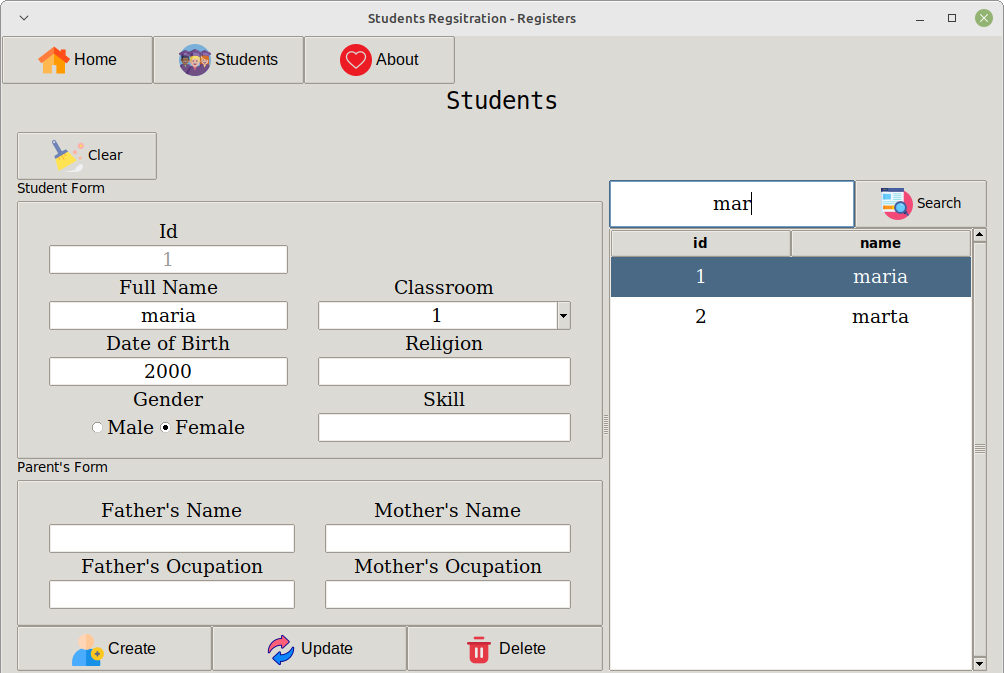
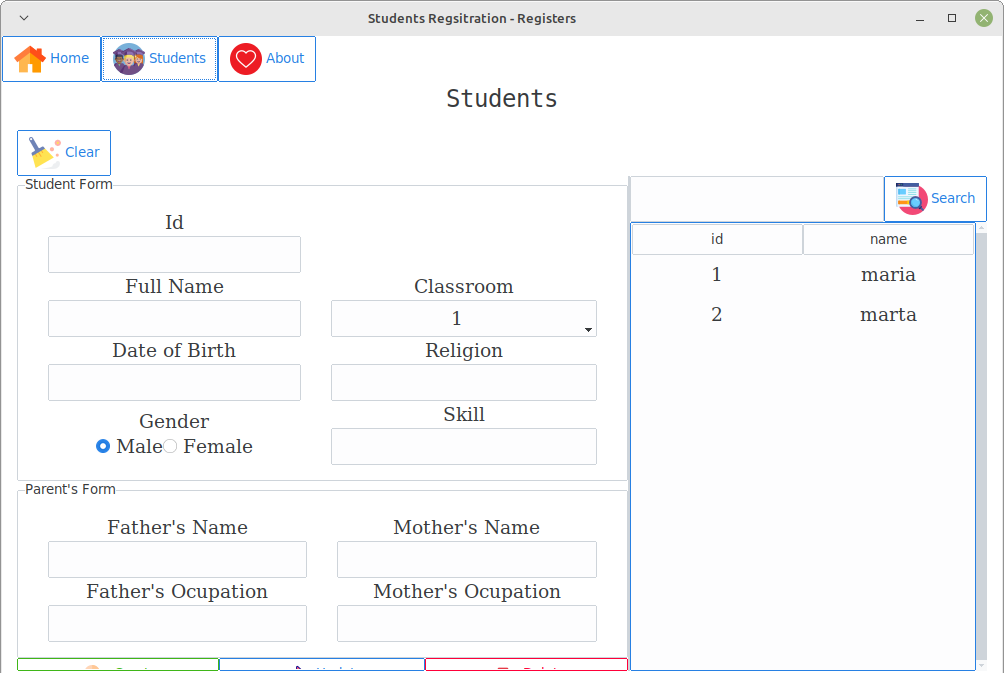
ttkbootstrap

diff --git a/app/view/components/crud_buttons.py b/app/view/components/crud_buttons.py
@@ -1,10 +1,8 @@
 import os
 import tkinter as tk
-import tkinter.ttk as ttk
+# import tkinter.ttk as ttk
+import ttkbootstrap as ttk
 from app.constants import ICONS_DIR
-
-
-CRUD_BUTTONS_FONT = ('Arial', 12, 'normal')
 
 
 class CrudButtons(ttk.Frame):
@@ -16,8 +14,8 @@ class CrudButtons(ttk.Frame):
         )
         self.create_button = ttk.Button(self)
         self.create_button.configure(text='Create')
-        self.create_button.configure(style='CrudButtons.TButton')
         self.create_button.configure(image=self.create_icon, compound=tk.LEFT)
+        self.create_button['bootstyle'] = 'outline-success'
         self.create_button.pack(side=tk.LEFT, fill=tk.X, expand=tk.YES)
 
         self.update_icon = tk.PhotoImage(
@@ -25,8 +23,8 @@ class CrudButtons(ttk.Frame):
         )
         self.update_button = ttk.Button(self)
         self.update_button.configure(text='Update')
-        self.update_button.configure(style='CrudButtons.TButton')
         self.update_button.configure(image=self.update_icon, compound=tk.LEFT)
+        self.update_button['bootstyle'] = 'outline-primary'
         self.update_button.pack(side=tk.LEFT, fill=tk.X, expand=tk.YES)
 
         self.delete_icon = tk.PhotoImage(
@@ -34,9 +32,6 @@ class CrudButtons(ttk.Frame):
         )
         self.delete_button = ttk.Button(self)
         self.delete_button.configure(text='Delete')
-        self.delete_button.configure(style='CrudButtons.TButton')
         self.delete_button.configure(image=self.delete_icon, compound=tk.LEFT)
+        self.delete_button['bootstyle'] = 'outline-danger'
         self.delete_button.pack(side=tk.LEFT, fill=tk.X, expand=tk.YES)
-
-        style = ttk.Style()
-        style.configure('CrudButtons.TButton', font=CRUD_BUTTONS_FONT)

diff --git a/app/view/components/nav.py b/app/view/components/nav.py
@@ -1,10 +1,8 @@
 import os
 import tkinter as tk
-import tkinter.ttk as ttk
+# import tkinter.ttk as ttk
+import ttkbootstrap as ttk
 from app.constants import ICONS_DIR
-
-
-NAV_BUTTON_FONT = ('Arial', 12, 'normal')
 
 
 class Nav(ttk.Frame):
@@ -16,8 +14,8 @@ class Nav(ttk.Frame):
         )
         self.home_button = ttk.Button(self)
         self.home_button.configure(text='Home')
-        self.home_button.configure(style='NavButton.TButton')
         self.home_button.configure(image=self.home_icon, compound=tk.LEFT)
+        self.home_button['bootstyle'] = 'outline-default'
         self.home_button.pack(side=tk.LEFT)
 
         self.students_icon = tk.PhotoImage(
@@ -25,10 +23,10 @@ class Nav(ttk.Frame):
         )
         self.students_button = ttk.Button(self)
         self.students_button.configure(text='Students')
-        self.students_button.configure(style='NavButton.TButton')
         self.students_button.configure(
             image=self.students_icon, compound=tk.LEFT
         )
+        self.students_button['bootstyle'] = 'outline-default'
         self.students_button.pack(side=tk.LEFT)
 
         self.about_icon = tk.PhotoImage(
@@ -36,9 +34,6 @@ class Nav(ttk.Frame):
         )
         self.about_button = ttk.Button(self)
         self.about_button.configure(text='About')
-        self.about_button.configure(style='NavButton.TButton')
         self.about_button.configure(image=self.about_icon, compound=tk.LEFT)
+        self.about_button['bootstyle'] = 'outline-default'
         self.about_button.pack(side=tk.LEFT)
-
-        style = ttk.Style()
-        style.configure('NavButton.TButton', font=NAV_BUTTON_FONT)

diff --git a/app/view/application.py b/app/view/application.py
@@ -1,9 +1,9 @@
 import tkinter as tk
 from tkinter import messagebox
-import tkinter.ttk as ttk
+# import tkinter.ttk as ttk
+import ttkbootstrap as ttk
 import typing
 from app.view.components.nav import Nav
-from app.controller.application_controller import ApplicationController
 from app.view.pages.about import About
 from app.view.pages.home import Home
 from app.view.pages.students import Students
@@ -18,10 +18,8 @@ class Application(tk.Tk):
 
         # style
         style = ttk.Style()
-        style.theme_use('clam')
+        style.theme_use('cosmo')
 
-        style = ttk.Style()
-        style.theme_use('clam')
         # widgets.
         self.nav = Nav(self)
         self.nav.pack(side=tk.TOP, fill=tk.X)

diff --git a/app/view/pages/students.py b/app/view/pages/students.py
@@ -1,6 +1,7 @@
 import os
 import tkinter as tk
-import tkinter.ttk as ttk
+# import tkinter.ttk as ttk
+import ttkbootstrap as ttk
 import typing
 from app.constants import ICONS_DIR
 from app.view.components.crud_buttons import CrudButtons
@@ -22,6 +23,7 @@ class Students(Generic):
         self.clear_button = ttk.Button(self.content)
         self.clear_button.configure(text='Clear')
         self.clear_button.configure(image=self.clear_icon, compound=tk.LEFT)
+        self.clear_button['bootstyle'] = 'outline-default'
         self.clear_button.pack(side=tk.TOP, anchor=tk.W)
 
         panedwindow = ttk.PanedWindow(self.content, orient=tk.HORIZONTAL)

diff --git a/app/view/components/search_bar.py b/app/view/components/search_bar.py
@@ -1,6 +1,7 @@
 import os
 import tkinter as tk
-import tkinter.ttk as ttk
+# import tkinter.ttk as ttk
+import ttkbootstrap as ttk
 from app.constants import ICONS_DIR
 
 
@@ -22,6 +23,7 @@ class SearchBar(ttk.Frame):
         self.button = ttk.Button(self)
         self.button.configure(text='Search')
         self.button.configure(image=self.search_icon, compound=tk.LEFT)
+        self.button['bootstyle'] = 'outline-default'
         self.button.pack(side=tk.RIGHT, fill=tk.BOTH)
 
     def get_value(self) -> str:

diff --git a/Readme.md b/Readme.md
@@ -8,4 +8,6 @@ Hello, this is a python application inspired by this [video](https://www.youtube
 
 
 ## how  run?
+`python3 -m pip install -r requirements.txt`
+
 `python3 main.py`
